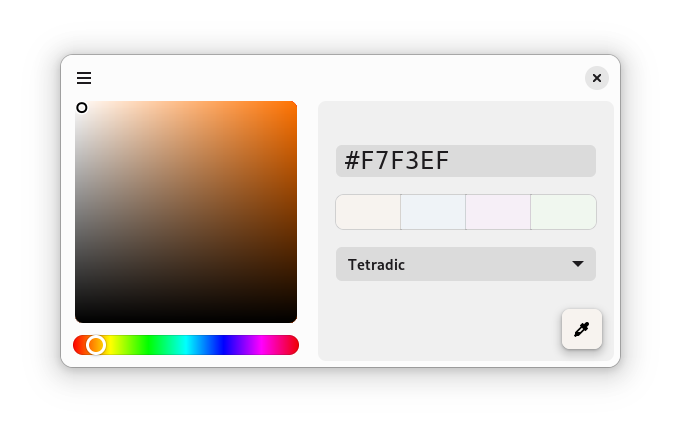
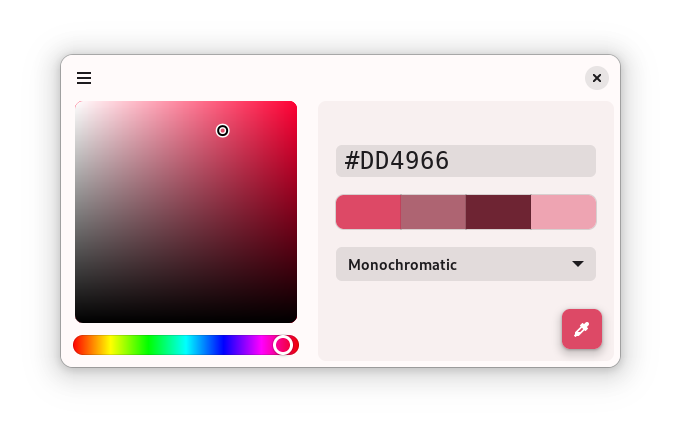
* - make UI colors correct

diff --git a/data/style.css b/data/style.css
@@ -2,10 +2,10 @@
 @define-color accent_color #6e4da1;
 @define-color accent_bg_color #6e4da1;
 @define-color accent_fg_color white;
-@define-color window_bg_color #fcfcfc;
-@define-color view_bg_color #f0f0f0;
-@define-color headerbar_bg_color #fcfcfc;
-@define-color popover_bg_color #f0f0f0;
+@define-color window_bg_color #fffafa;
+@define-color view_bg_color #f8f0f0;
+@define-color headerbar_bg_color #fffafa;
+@define-color popover_bg_color #f8f0f0;
 @define-color popover_fg_color #1d1b1e;
 @define-color window_fg_color #1d1b1e;
 @define-color view_fg_color #1d1b1e;
